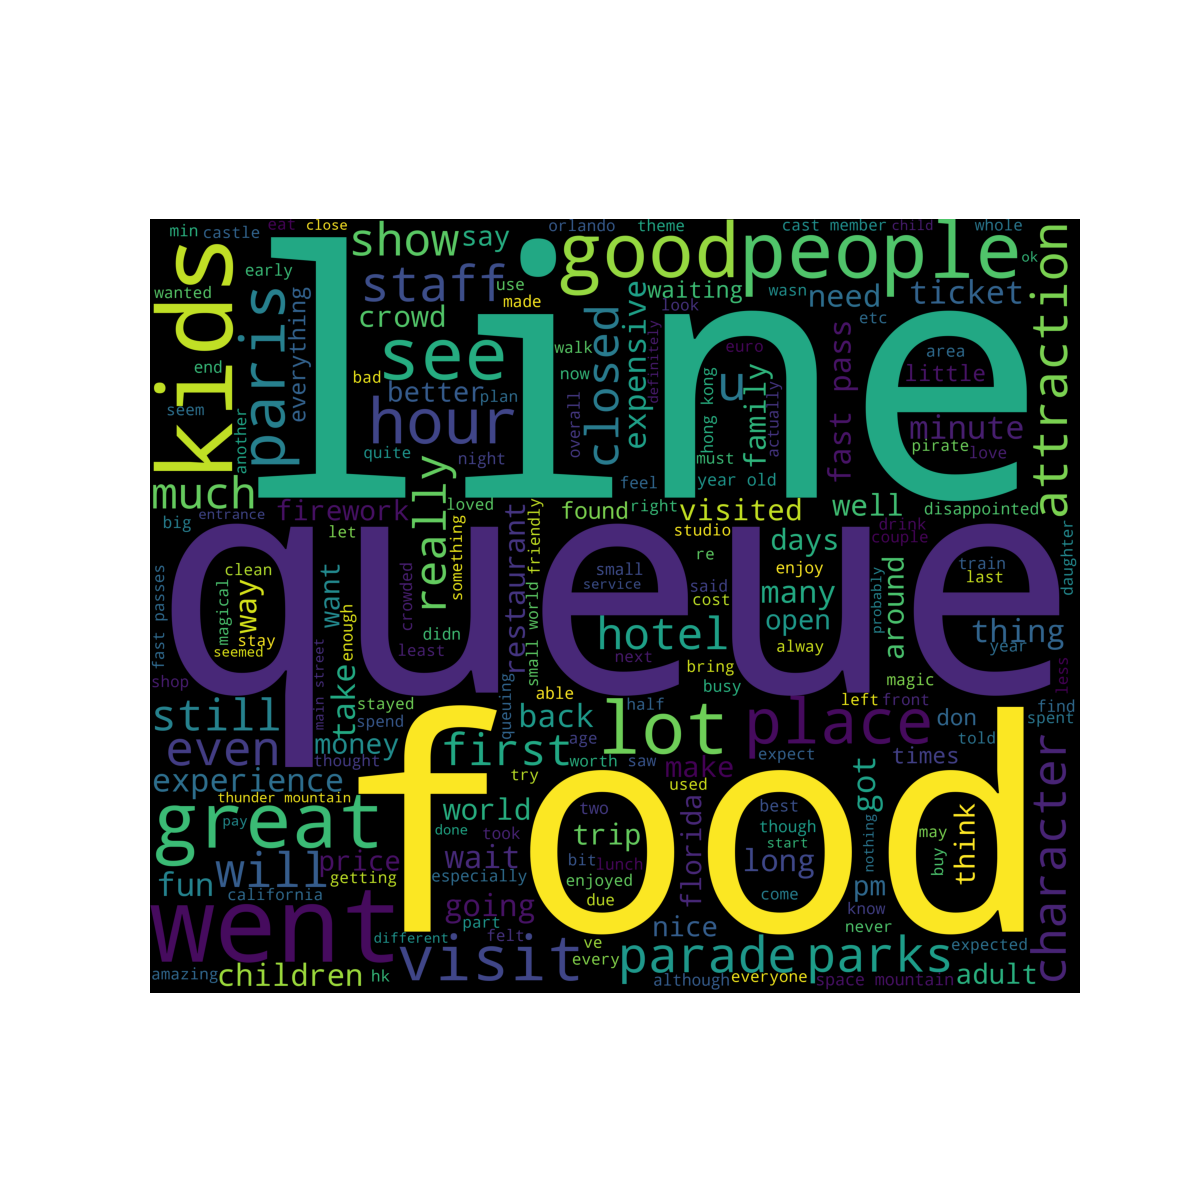
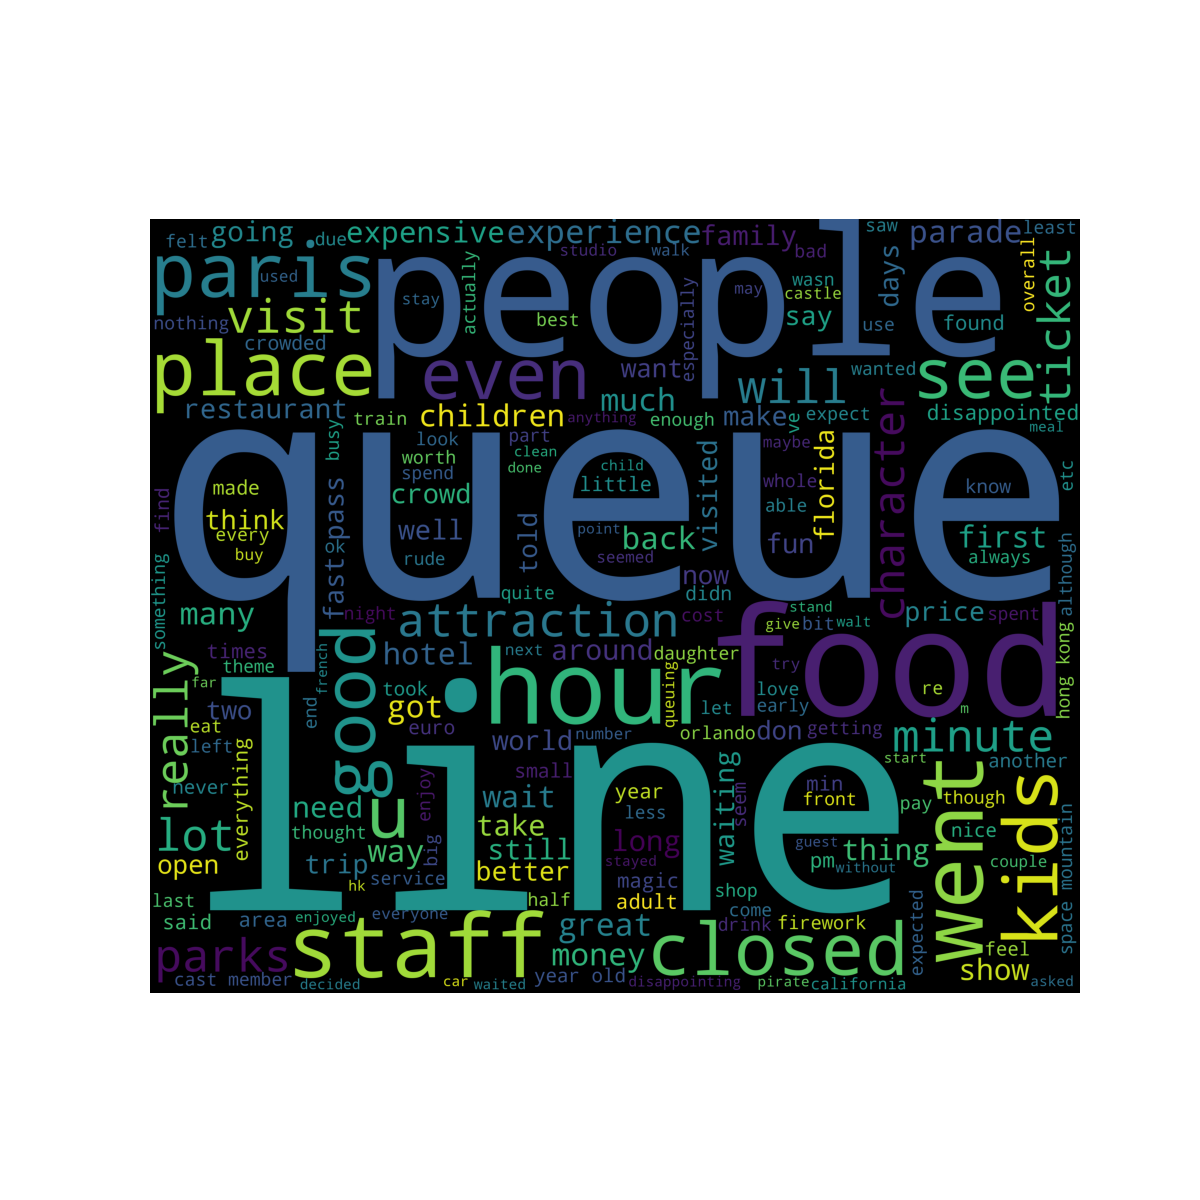
Changed data partition

Changed region(s): [[0.1233, 0.185, 0.8942, 0.8325]]

diff --git a/sentiment_analysis.py b/sentiment_analysis.py
@@ -211,7 +211,7 @@ def create_disney_models_and_split_data():
     # Load disney reviews data
     disney_reviews = loader.load_disneyland_data()
     print(disney_reviews.head())
-    # explore_disney_data(disney_reviews)
+    explore_disney_data(disney_reviews)
 
     return create_model_and_split_data(disney_reviews, "disney")
 
@@ -236,7 +236,7 @@ def create_tweets_models_and_split_data():
     # Load tweets data
     tweets = loader.load_tweets_data()
     print(tweets.head())
-    # explore_tweets_data(tweets)
+    explore_tweets_data(tweets)
 
     return create_model_and_split_data(tweets, "tweets")
 
@@ -305,48 +305,48 @@ if __name__ == '__main__':
                        "amazon_logistic_model"]
 
     # Compare all svm models on IMDB data
-    show_models_results_on_data(svm_models, svm_models_names, imdb_x_test, imdb_y_test, "Comparing SVM models on IMDB", "IMDB")
+    show_models_results_on_data(svm_models, svm_models_names, imdb_x_test, imdb_y_test, "Comparing SVM models on IMDB", "IMDB_SVM")
 
     # Compare all logistic models on IMDB data
     show_models_results_on_data(logistic_models, logistic_models_names, imdb_x_test,
                                 imdb_y_test, "Comparing Logistic models on IMDB",
-                                "IMDB")
+                                "IMDB_logistic")
 
     # Compare all svm models on disney data
     show_models_results_on_data(svm_models, svm_models_names, disney_x_test,
                                 disney_y_test, "Comparing SVM models on disney",
-                                "disney")
+                                "disney_svm")
 
     # Compare all logistic models on disney data
     show_models_results_on_data(logistic_models, logistic_models_names,
                                 disney_x_test,
                                 disney_y_test,
                                 "Comparing Logistic models on disney",
-                                "disney")
+                                "disney_logistic")
 
     # Compare all svm models on tweets data
 
     show_models_results_on_data(svm_models, svm_models_names, tweets_x_test,
                                 tweets_y_test, "Comparing SVM models on tweets",
-                                "tweets")
+                                "tweets_svm")
     # Compare all logistic models on tweets data
     show_models_results_on_data(logistic_models, logistic_models_names,
                                 tweets_x_test,
                                 tweets_y_test,
                                 "Comparing Logistic models on tweets",
-                                "tweets")
+                                "tweets_logistic")
 
     # Compare all svm models on amazon data
 
     show_models_results_on_data(svm_models, svm_models_names, amazon_x_test,
                                 amazon_y_test, "Comparing SVM models on amazon",
-                                "amazon")
+                                "amazon_svm")
     # Compare all logistic models on amazon data
     show_models_results_on_data(logistic_models, logistic_models_names,
                                 amazon_x_test,
                                 amazon_y_test,
                                 "Comparing Logistic models on amazon",
-                                "amazon")
+                                "amazon_logistic")
 
 
 

diff --git a/loader.py b/loader.py
@@ -96,7 +96,7 @@ def load_disneyland_data():
     needed_columns_dict = dict()
     needed_columns_dict['review'] = disney_reviews['Review_Text'].apply(preprocess_text)
     # TODO currently anything below 5 is considered negative since disneyland is supposed to be super exciting. Also created pretty equal datasets
-    needed_columns_dict['sentiment'] = disney_reviews['Rating'].apply(lambda score: "positive" if score > 4 else "negative")
+    needed_columns_dict['sentiment'] = disney_reviews['Rating'].apply(lambda score: "positive" if score > 3 else "negative")
     needed_reviews = pd.DataFrame(needed_columns_dict)
     return needed_reviews
 
@@ -105,9 +105,9 @@ def load_tweets_data():
     tweets = pd.read_csv("./data/Tweets.csv")
     needed_columns_dict = dict()
 
-    tweets['airline_sentiment'] = tweets['airline_sentiment'].apply(lambda sentiment: "positive" if sentiment == "neutral" or sentiment == "positive" else "negative")
+    # tweets['airline_sentiment'] = tweets['airline_sentiment'].apply(lambda sentiment: "positive" if sentiment == "neutral" or sentiment == "positive" else "negative")
 
-    # tweets = tweets[tweets['airline_sentiment'] != 'neutral']
+    tweets = tweets[tweets['airline_sentiment'] != 'neutral']
 
     needed_columns_dict['review'] = tweets['text'].apply(preprocess_text)
     needed_columns_dict['sentiment'] = tweets['airline_sentiment']
